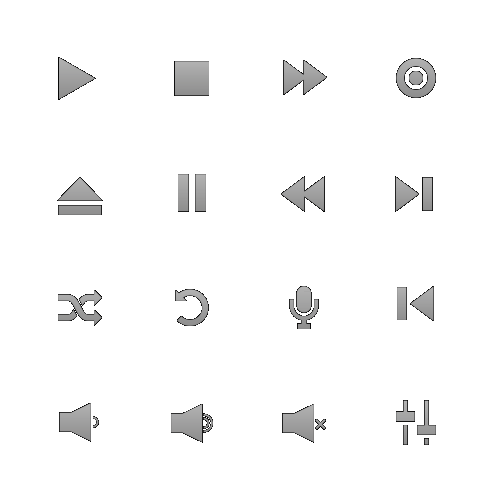
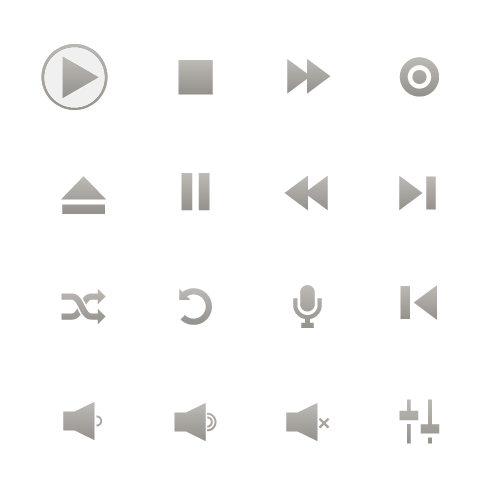
slideshow button

diff --git a/src/main/webapp/resources/celJS/celanim/slideshow.js b/src/main/webapp/resources/celJS/celanim/slideshow.js
@@ -64,9 +64,7 @@ var initSlideShows = function(slideShowConfigArray) {
        }).hide();
       tempImg.observe('load', centerImage);
       var divWrapper = $(slideShowConfig.htmlId).wrap('div', {
-          'class' : 'celanim_slideshow_wrapper',
-          'style': 'display: inline-block; position: relative;'
-            +' font-size: 0px; line-height: 0px; overflow: hidden; ' }
+          'class' : 'celanim_slideshow_wrapper' }
         ).insert({ top : tempImg });
       divWrapper.setStyle({ 'height' : $(slideShowConfig.htmlId).getHeight() + 'px' });
       divWrapper.setStyle({ 'width' : $(slideShowConfig.htmlId).getWidth() + 'px' });
@@ -133,17 +131,7 @@ var startSlideShows = function() {
     celSlideShowIsRunningHash.set(pair.key, !isManualStart);
     if (isManualStart) {
       var startButtonDiv = new Element('div', { 'class' : 'slideshowButton' });
-      startButtonDiv.setStyle({
-        backgroundImage : 'url("/file/resources/celRes/celanim/buttons500.png")',
-        backgroundRepeat : 'no-repeat',
-        backgroundPosition : '-57px -56px',
-        'height' : '45px',
-        'width' : '45px',
-        'position' : 'absolute',
-        'left' : '50%',
-        'top' : '50%',
-        margin : '-23px 0px 0px -23px'
-      }).hide();
+      startButtonDiv.hide();
       $(pair.key).insert({ after : startButtonDiv });
       $(pair.key).up('div.celanim_slideshow_wrapper').observe('click', celSlideShowManualStartStop);
       Effect.Appear(startButtonDiv, { duration : 3.0 , to : 0.8 });

diff --git a/src/main/webapp/resources/celRes/celanim/slideshow.css b/src/main/webapp/resources/celRes/celanim/slideshow.css
@@ -1,0 +1,31 @@
+@charset "UTF-8";
+/* CSS Document */
+
+.celanim_slideshow_wrapper { 
+	display: inline-block; 
+	position: relative; 
+	font-size: 0px; 
+	line-height: 0px; 
+	overflow: hidden; 
+}
+
+.celanim_slideshow_wrapper .slideshowButton { 
+	background-image: url(buttons500.png);
+	height: 66px !important; 
+	width: 67px !important; 
+	position: absolute; 
+	left: 50%; 
+	top: 50%; 
+	margin-top: -23px; 
+	margin-right: 0px; 
+	margin-bottom: 0px; 
+	margin-left: -23px; 
+	opacity: 0.9; 
+	background-position: -41px -44px !important; 
+	background-repeat: no-repeat; 
+}
+
+.celanim_slideshow_wrapper .slideshowButton:hover { 
+	background-image: url(buttons500-hover.png);
+}
+
